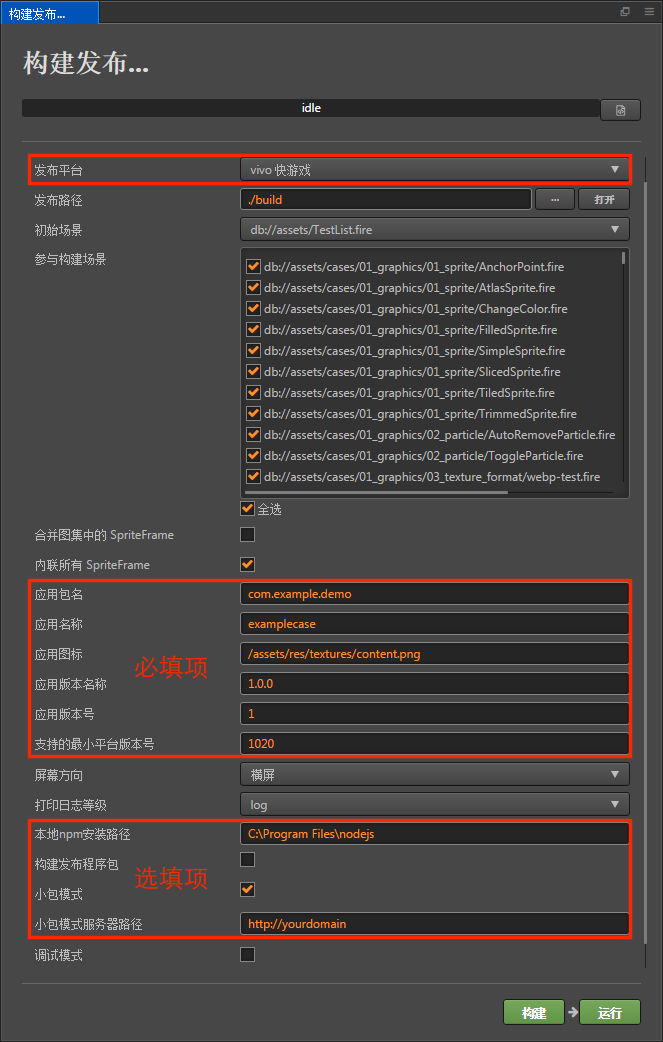
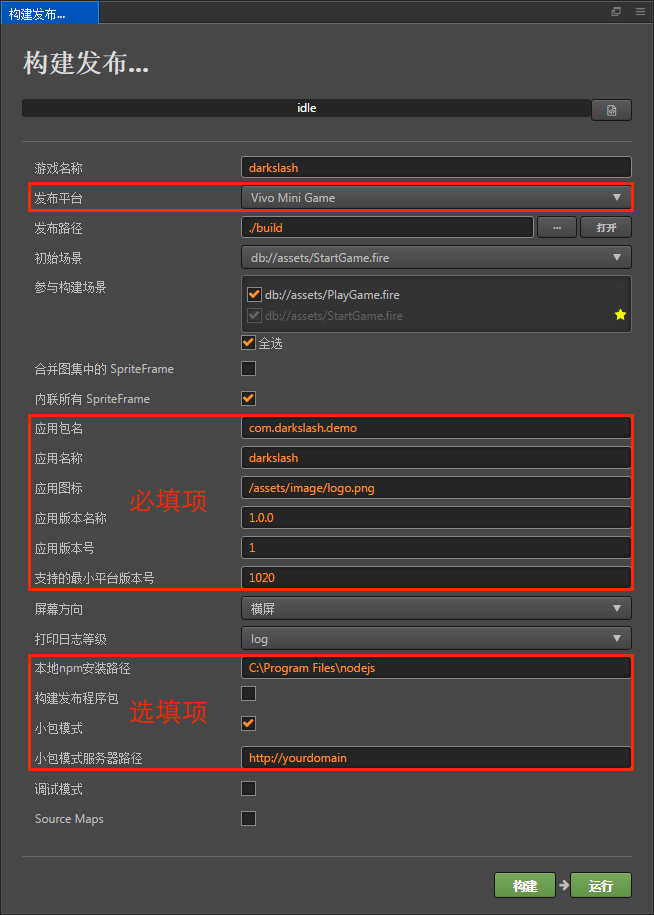
提交发布到 vivo 小游戏相关修改

diff --git a/zh/publish/publish-vivo-instant-games.md b/zh/publish/publish-vivo-instant-games.md
@@ -1,10 +1,10 @@
-# 发布到 vivo 快游戏平台
+# 发布到 vivo 小游戏平台
 
-从 v2.0.5 版本开始，Cocos Creator 正式支持将游戏发布到 vivo 快游戏平台。我们来看一下如何使用 Cocos Creator 一键发布到 vivo 快游戏平台。
+从 v2.0.5 版本开始，Cocos Creator 正式支持将游戏发布到 vivo 小游戏平台。我们来看一下如何使用 Cocos Creator 一键发布到 vivo 小游戏平台。
 
 ## 环境配置
 
-- 下载 [快游戏调试器](https://jerrymoon.github.io/kuai-you-xi-jiao-cheng/xia-zai-yu-geng-xin.html) 和 [快游戏引擎](https://jerrymoon.github.io/kuai-you-xi-jiao-cheng/xia-zai-yu-geng-xin.html)，并安装到 Android 设备上（建议 Android Phone 6.0 或以上版本）
+- 下载 [快应用 & vivo 小游戏调试器](https://dev.vivo.com.cn/documentCenter/doc/163) 和 [vivo 小游戏引擎](https://dev.vivo.com.cn/documentCenter/doc/163)，并安装到 Android 设备上（建议 Android Phone 6.0 或以上版本）
 
 - 全局安装 [nodejs-8.1.4](https://nodejs.org/zh-cn/download/) 或以上版本
 
@@ -23,11 +23,11 @@
     npm install -g qgame-toolkit
     ```
 
-- 根据用户自己的开发需求判断是否需要安装 [chrome 调试快游戏引擎版本](https://jerrymoon.github.io/kuai-you-xi-jiao-cheng/xia-zai-yu-geng-xin.html)
+- 根据用户自己的开发需求判断是否需要安装 [chrome 调试小游戏引擎版本](https://jerrymoon.github.io/kuai-you-xi-jiao-cheng/xia-zai-yu-geng-xin.html)
 
 ## 发布流程
 
-一、使用 Cocos Creator 打开需要发布的项目工程，在 **构建发布** 面板的 **发布平台** 中选择 **vivo 快游戏**。
+一、使用 Cocos Creator 打开需要发布的项目工程，在 **构建发布** 面板的 **发布平台** 中选择 **vivo 小游戏**。
 
 ![](./publish-vivo-instant-games/build.png)
 
@@ -35,11 +35,11 @@
 
 - **应用图标**
 
-  **应用图标** 为必填项。构建时，应用图标将会构建到 vivo 快游戏的工程中，请确保填写的应用图标路径下的图片真实存在。如：填写的应用图标路径为 /assets/image/logo.png，则在 Creator **资源管理器** 的 **Assets** 目录下需要存在 image 目录和 logo.png。
+  **应用图标** 为必填项。构建时，应用图标将会构建到 vivo 小游戏的工程中，请确保填写的应用图标路径下的图片真实存在。如：填写的应用图标路径为 /assets/image/logo.png，则在 Creator **资源管理器** 的 **Assets** 目录下需要存在 image 目录和 logo.png。
   
 - **本地 npm 安装路径**
 
-  **本地 npm 安装路径** 是选填项。填写 npm 安装路径的目的是构建生成可运行的快游戏 rpk 包（rpk 包位于快游戏工程 qgame 下的 dist 目录）。如果不填写该项，则 Creator 只会导出快游戏工程目录，不会生成 rpk 包。
+  **本地 npm 安装路径** 是选填项。填写 npm 安装路径的目的是构建生成可运行的小游戏 rpk 包（rpk 包位于小游戏工程 qgame 下的 dist 目录）。如果不填写该项，则 Creator 只会导出小游戏工程目录，不会生成 rpk 包。
 
     - Mac 系统
 
@@ -70,7 +70,7 @@
 
     - 添加 release 签名：
 
-      在快游戏工程根目录中，添加 **build-templates/jsb-link/sign/release** 目录，然后在 release 目录下放置你的私钥文件 **private.pem** 和证书文件 **certificate.pem**。如下图所示：
+      在小游戏工程根目录中，添加 **build-templates/jsb-link/sign/release** 目录，然后在 release 目录下放置你的私钥文件 **private.pem** 和证书文件 **certificate.pem**。如下图所示：
 
       ![](./publish-vivo-instant-games/sign_release_path.png)
 
@@ -79,7 +79,7 @@
       用户需要通过 openssl 命令等工具生成签名文件 private.pem、certificate.pem。其中在 build/qgame/sign/debug 目录下的证书仅供调试使用。
 
     ```bash
-    # 命令行指定到刚才添加到快游戏根目录的 release 目录下
+    # 命令行指定到刚才添加到小游戏根目录的 release 目录下
     cd E:\workspace\YourProject\build-templates\jsb-link\sign\release
     # 通过 openssl 命令工具生成签名文件
     openssl req -newkey rsa:2048 -nodes -keyout private.pem -x509 -days 3650 -out certificate.pem
@@ -89,7 +89,7 @@
 
 - **小包模式和小包模式服务器路径**
 
-  该项为选填项。快游戏的包内体积包含代码和资源不能超过 4M，资源可以通过网络请求加载。**小包模式** 就是帮助用户将脚本文件保留在快游戏包内，其他资源则上传到远程服务器，根据需要从远程服务器下载。而远程资源的下载、缓存和版本管理，Creator 已经帮用户做好了。用户需要做的是以下两个步骤：
+  该项为选填项。小游戏的包内体积包含代码和资源不能超过 4M，资源可以通过网络请求加载。**小包模式** 就是帮助用户将脚本文件保留在小游戏包内，其他资源则上传到远程服务器，根据需要从远程服务器下载。而远程资源的下载、缓存和版本管理，Creator 已经帮用户做好了。用户需要做的是以下两个步骤：
 
   1、构建时，勾选 **小包模式**，填写 **小包模式服务器路径**。然后点击 **构建**。
 
@@ -97,7 +97,7 @@
 
   此时，构建出来的 qgame 目录下将不再包含 res 目录，res 目录里的资源将通过网络请求从填写的 **小包模式服务器地址** 上下载。
 
-二、**构建发布** 面板的相关参数设置完成后，点击 **构建**。构建完成后点击 **发布路径** 后面的 **打开** 按钮来打开构建发布包，可以看到在默认发布路径 build 目录下生成了 **qgame** 目录，该目录就是导出的 vivo 快游戏工程目录。
+二、**构建发布** 面板的相关参数设置完成后，点击 **构建**。构建完成后点击 **发布路径** 后面的 **打开** 按钮来打开构建发布包，可以看到在默认发布路径 build 目录下生成了 **qgame** 目录，该目录就是导出的 vivo 小游戏工程目录。
 
 ![](./publish-vivo-instant-games/package.png)
 
@@ -118,7 +118,7 @@ npm run build
 
 - **方法一**：
 
-    利用 vivo 快游戏打包工具命令生成网址和二维码
+    利用 vivo 小游戏打包工具命令生成网址和二维码
 
     ```bash
     # 先把命令行指定到 qgame 目录下
@@ -127,7 +127,7 @@ npm run build
     npm run server
     ```
 
-    然后在 Android 设备上打开之前已经安装完成的 **快游戏调试器**
+    然后在 Android 设备上打开之前已经安装完成的 **快应用 & vivo 小游戏调试器**
 
     ![](./publish-vivo-instant-games/vivo-instant_scan_install.jpg)
 
@@ -135,15 +135,8 @@ npm run build
 
 - **方法二**：
 
-    将构建生成的快游戏 rpk 文件（位于快游戏工程 qgame 目录下的 dist 目录中）拷贝到手机 SD 卡中
+    将构建生成的小游戏 rpk 文件（位于小游戏工程 qgame 目录下的 dist 目录中）拷贝到手机 SD 卡中
 
-    在 Android 设备上打开之前已经安装完成的 **快应用调试器**，点击 **本地安装**，然后从手机 SD 中找到 rpk 文件，选择打开即可。
+    在 Android 设备上打开之前已经安装完成的 **快应用 & vivo 小游戏调试器**，点击 **本地安装**，然后从手机 SD 中找到 rpk 文件，选择打开即可。
 
     ![](./publish-vivo-instant-games/vivo-instant_native_install.jpg)
-
-## 相关参考链接
-
-- [vivo 快游戏教程](https://jerrymoon.github.io/kuai-you-xi-api-wen-dang/quan-ju-shi-jian/sheng-ming-zhou-qi.html)
-- [vivo 快游戏 API 文档](https://jerrymoon.github.io/kuai-you-xi-api-wen-dang/quan-ju-shi-jian/sheng-ming-zhou-qi.html)
-- [vivo 快游戏工具下载](https://jerrymoon.github.io/kuai-you-xi-jiao-cheng/xia-zai-yu-geng-xin.html)
-

diff --git a/zh/index.md b/zh/index.md
@@ -6,7 +6,7 @@
 
 ## 特别推荐
 
-- 从 v2.0.5 开始，Cocos Creator 支持发布到 vivo 快游戏平台，请参阅 [发布到 vivo 快游戏平台](publish/publish-vivo-instant-games.md)。
+- 从 v2.0.5 开始，Cocos Creator 支持发布到 vivo 小游戏平台，请参阅 [发布到 vivo 小游戏平台](publish/publish-vivo-instant-games.md)。
 - 从 v2.0.1 开始，Cocos Creator 升级了开放数据域解决方案，请参阅 [接入小游戏开放数据域](publish/publish-wechatgame-sub-domain.md)。
 - [v2.0 升级指南](release-notes/upgrade-guide-v2.0.md)
 - 从 v1.10 开始，Cocos Creator 对底层资源类型进行了重构，绝大多数项目不受影响，但有些项目可能会收到一些警告，详情请查阅 [v1.10 资源升级指南](release-notes/raw-asset-migration.md)。

diff --git a/zh/SUMMARY.md b/zh/SUMMARY.md
@@ -90,7 +90,7 @@
     - [发布到 QQ「玩一玩」平台](publish/publish-qqplay.md)
     - [发布到 Facebook Instant Games 平台](publish/publish-fb-instant-games.md)
     - [发布到 Google Play Instant 平台](publish/publish-android-instant.md)
-    - [发布到 vivo 快游戏平台](publish/publish-vivo-instant-games.md)
+    - [发布到 vivo 小游戏平台](publish/publish-vivo-instant-games.md)
     - [定制项目构建流程](publish/custom-project-build-template.md)
 	- [命令行发布项目](publish/publish-in-command-line.md)
 

diff --git a/zh/publish/index.md b/zh/publish/index.md
@@ -9,7 +9,7 @@
 - [发布到 QQ「玩一玩」平台](publish-qqplay.md)
 - [发布到 Facebook Instant Games 平台](publish-fb-instant-games.md)
 - [发布到 Google Play Instant 平台](publish-android-instant.md)
-- [发布到 vivo 快游戏平台](publish-vivo-instant-games.md)
+- [发布到 vivo 小游戏平台](publish-vivo-instant-games.md)
 - [命令行发布项目](publish-in-command-line.md)
 - [定制项目构建模板](custom-project-build-template.md)
 
